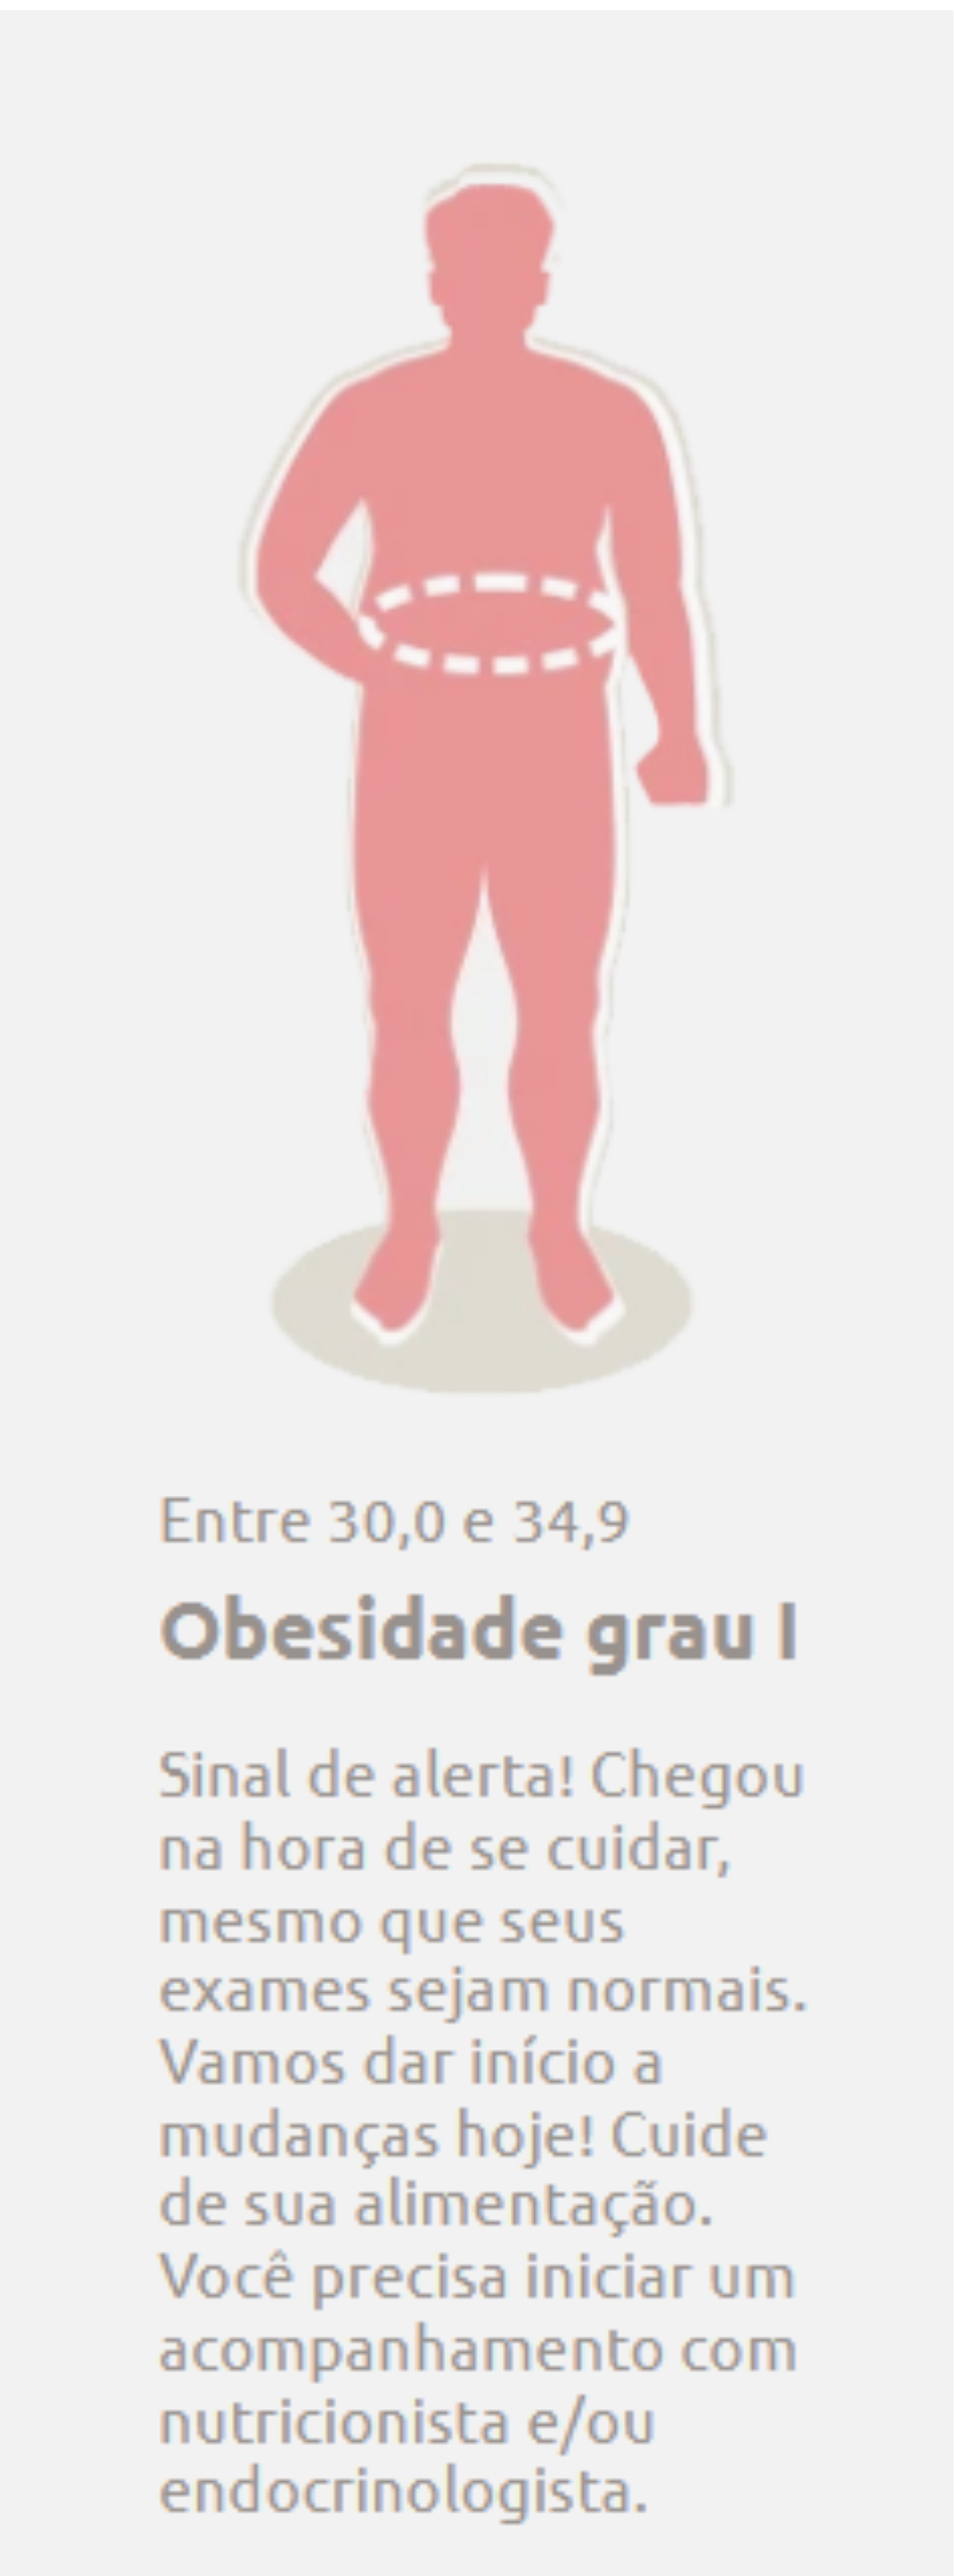
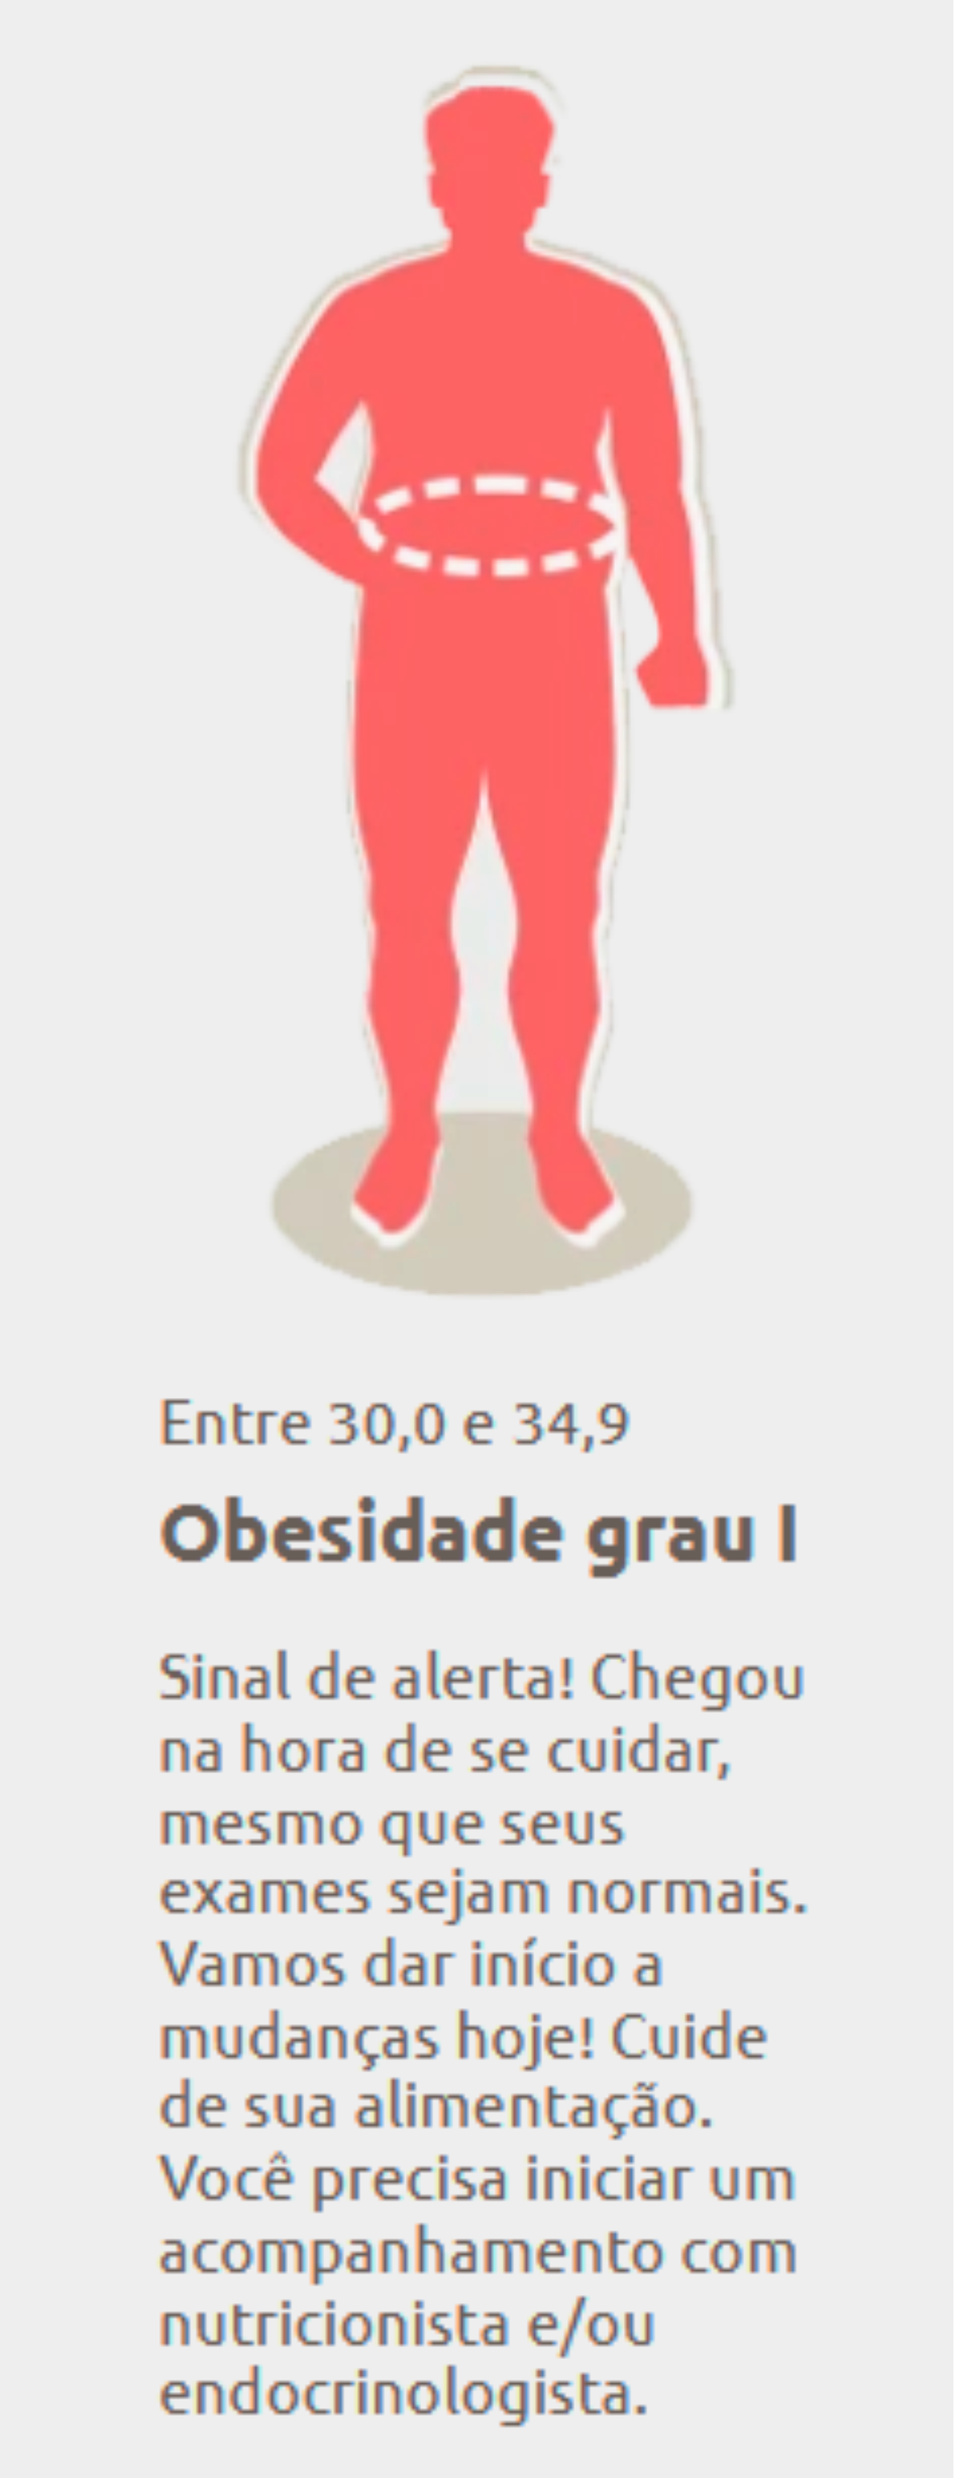
update

Changed region(s): [[0.1538, 0.0, 0.8615, 0.9956]]

diff --git a/script.js b/script.js
@@ -5,6 +5,8 @@ var idadet = document.querySelector('#iidade')
 var imagens = document.querySelector('#imagens')
 var section = document.querySelector('#sec2')
 var main2 = document.querySelector('#main2')
+var msgIMC = document.querySelector('#msgIMC')
+
 //Imagens
 var abaixo = 'Imagens/abaixo.png'
 var normal = 'Imagens/normal.png'
@@ -51,11 +53,22 @@ function saude(){
 
             imagens.style.backgroundImage = 'url('+obes3+')'
 
+            msgIMC.innerHTML = `Aqui o sinal é vermelho, com forte probabilidade de já existirem doenças muito graves associadas. O tratamento deve ser ainda mais urgente.`
+            msgIMC.style.marginTop = "15px"
+            msgIMC.style.fontSize = ".7em"
+            imagens.style.height = "235px"
+
         } else if (imc >= 35){
             resultado = 'Obesidade Grau II'
             res2.innerHTML += `O peso ideal seria entre <span class="verm">${pesoi1.toFixed(1)} Kg</span> e <span class="verm">${pesoi2.toFixed(1)} Kg</span>.`
+            
 
             imagens.style.backgroundImage = 'url('+obes2+')'
+
+            msgIMC.innerHTML = `Mesmo que seus exames aparentem estar normais, é hora de se cuidar, iniciando mudanças no estilo de vida com o acompanhamento próximo de profissionais de saúde.`
+            msgIMC.style.marginTop = "10px"
+            msgIMC.style.fontSize = ".7em"
+            imagens.style.height = "235px"
 
         } else if (imc >= 30){
             resultado = 'Obesidade Grau I'
@@ -63,22 +76,41 @@ function saude(){
 
             imagens.style.backgroundImage = 'url('+obes1+')'
 
+            msgIMC.innerHTML = `Sinal de alerta! Chegou na hora de se cuidar, mesmo que seus exames sejam normais. Vamos dar início a mudanças hoje! Cuide de sua alimentação. Você precisa iniciar um acompanhamento com nutricionista e/ou endocrinologista.`
+            msgIMC.style.marginTop = "7px"
+            msgIMC.style.fontSize = ".65em"
+            imagens.style.height = "225px"
+
         } else if (imc >= 25){
             resultado = 'Sobrepeso'
             res2.innerHTML += `O peso ideal seria entre <span class="verm">${pesoi1.toFixed(1)} Kg</span> e <span class="verm">${pesoi2.toFixed(1)} Kg</span>.`
 
             imagens.style.backgroundImage = 'url('+sobrepes+')'
 
+            msgIMC.innerHTML = `Isso é, na verdade, uma pré-obesidade e muitas pessoas nessa faixa já apresentam doenças associadas, como diabetes e hipertensão. Importante rever hábitos e buscar ajuda antes de, por uma série de fatores, entrar na faixa da obesidade pra valer.`
+            msgIMC.style.marginTop = "7px"
+            msgIMC.style.fontSize = ".65em"
+            imagens.style.height = "225px"
+
+
         } else if (imc >= 18.5){
             resultado = 'Peso Normal'
 
             imagens.style.backgroundImage = 'url('+normal+')'
+
+            msgIMC.innerHTML = `Que bom que você está com o peso normal! E o melhor jeito de continuar assim é mantendo um estilo de vida ativo e uma alimentação equilibrada.`
+            msgIMC.style.marginTop = "25px"
+            imagens.style.height = "225px"
 
         } else if (imc < 18.5){
             resultado = 'Baixo Peso'
             res2.innerHTML += `<p>O peso ideal seria entre <span class="verm">${pesoi1.toFixed(1)}Kg</span> e <span class="verm">${pesoi2.toFixed(1)}Kg</span>.</p>`
 
             imagens.style.backgroundImage = 'url('+abaixo+')'
+            msgIMC.innerHTML = `Procure um médico. Algumas pessoas têm um baixo peso por características do seu organismo e tudo bem. Outras podem estar enfrentando problemas, como a desnutrição. É preciso saber qual é o caso.`
+
+            msgIMC.style.marginTop = "15px"
+            imagens.style.height = "225px"
 
         }
         //Exibir o resultado IMC.
@@ -110,7 +142,9 @@ function saude(){
         imagens.style.display = "block"
         section.style.float = "left"
         section.style.marginRight = "10px"
-        main2.style.height = "450px"
+        main2.style.height = "420px"
+        msgIMC.style.display = "block"
+
 
 
 

diff --git a/style.css b/style.css
@@ -16,6 +16,7 @@ h1{
 #main2{
     margin: auto;
     width: fit-content;
+    max-width: 340px;
     color: white;
     background-color: rgba(0, 0, 0, 0.466);
     padding: 20px;
@@ -35,15 +36,28 @@ section{
 
 #imagens{
     width: 130px;
-    height: 350px;
-    border: solid 1px;
-
+    height: 225px;
     background-color: white;
     border-radius: 5px;
     display: none;
     float: right;
 
     background-size: cover;
+}
+
+#msgIMC{
+    background-color: #F2F2F2;
+    color: black;
+    margin-top: 15px;
+    padding: 7px;
+    width: fit-content;
+    border-radius: 5px;
+    font-size: .7em;
+    text-align: justify;
+
+
+    display: none;
+    float: left;/*Não sei pq, mas sem isso as letras ficam dispersas.*/
 }
 
 

diff --git a/index.html b/index.html
@@ -33,7 +33,10 @@
 
         <div id="imagens"></div>
 
+        <div id="msgIMC"></div>
+
     </main>
+    
     <div id="res2" class="res"></div>
     
     
